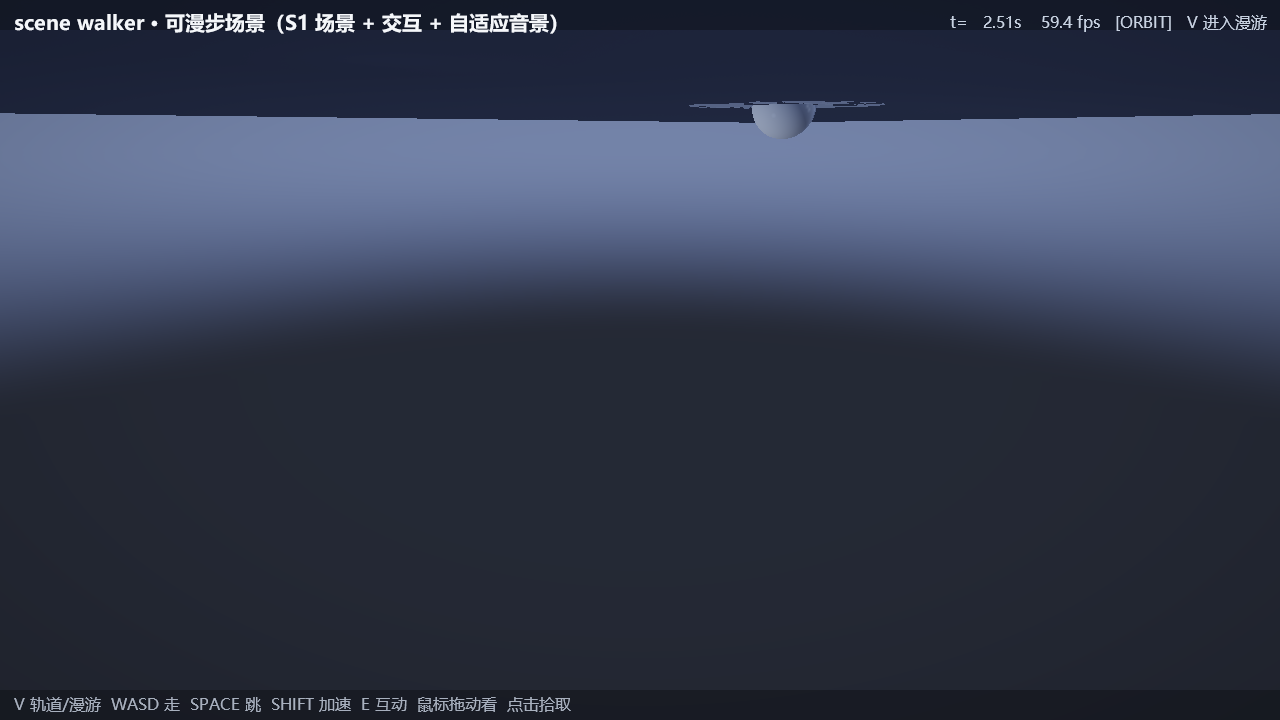
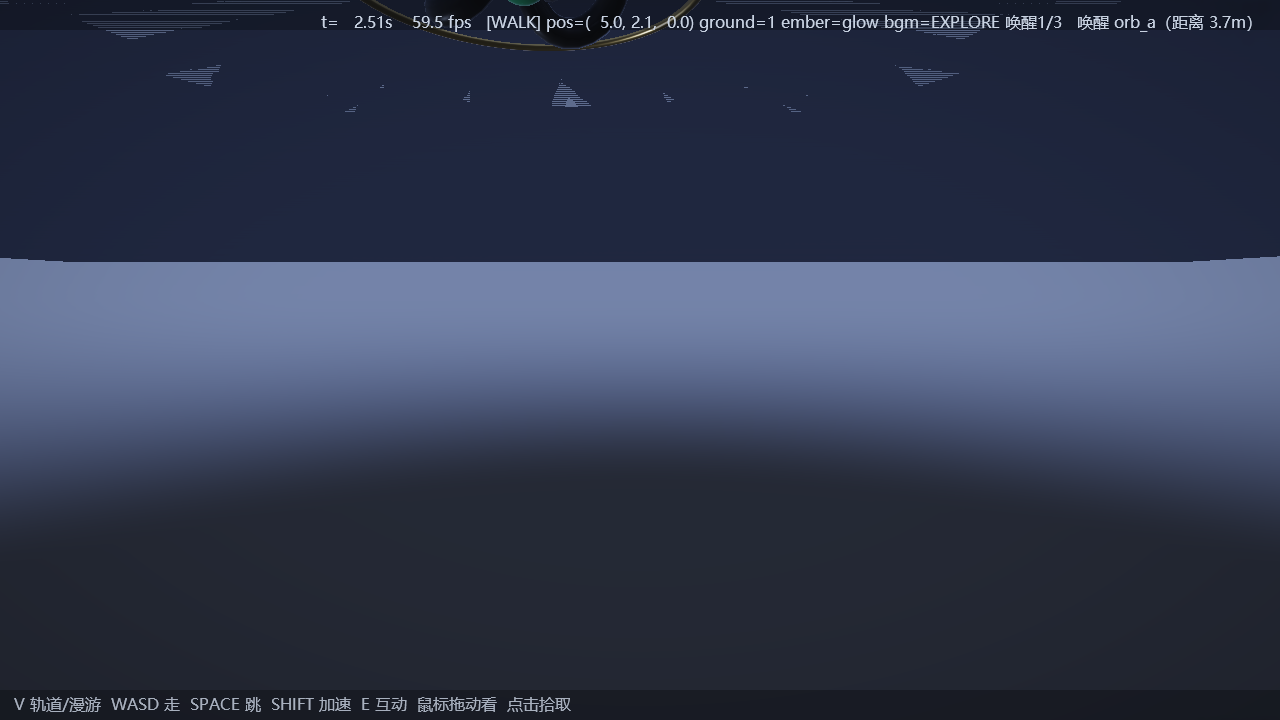
feat(scene_walker): v3.3 玩法目标与音乐叙事——唤醒 3 个 orb：探索→警觉→紧张→胜利
- engine/adaptive_music.py：新增 set_extra()（注入 enemy_count/victory 等附加
  game_state 字段，驱动引擎内置 COMBAT_LOW / VICTORY 状态）
- demos/scene_walker.py：唤醒去重集合 + 音乐阶段推进（1 个→TENSION、
  2 个→COMBAT_LOW、3 个→VICTORY 6 秒余韵后回 EXPLORE）；HUD 显示唤醒进度；
  --flag victory 自检
- 验证：lab venv 全链日志 arouse→TENSION / victory→VICTORY / extra=-→EXPLORE ✓

diff --git a/demos/scene_walker.py b/demos/scene_walker.py
@@ -8,6 +8,8 @@
     - 演出变体：zhuangtaiji 马尔可夫链驱动发光元素（氛围每次不同，
       不可用时回退正弦呼吸）；
     - 交互：点击拾取场景元素；E 键唤醒**最近**的发光元素（脉冲高亮）；
+      **玩法目标**：唤醒全部 3 个 orb —— 音乐叙事随之推进
+      （探索→警觉→紧张→胜利；HUD 显示唤醒进度）；
     - 音景：bloodmusic SFX 反馈音（跳跃/落地/拾取/互动；`assets/sfx/*.wav`，
       由 scripts/gen_sfx.py 生成）+ **自适应 BGM**（互动/拾取推高张力，
       EXPLORE ⇄ TENSION 平滑过渡；需安装 bloodmusic，缺失则静默降级）；
@@ -95,6 +97,9 @@ class WalkerApp(DemoApp):
         self._msg = ''
         self._auto_t = None                    # --flag interact 自检
         self._hot_t = None                     # --flag hotreload 自检
+        self._awakened = set()                 # 已唤醒元素（玩法目标：3 个 orb）
+        self._victory_until = 0.0              # 胜利余韵截止
+        self._victory_t = None                 # --flag victory 自检
         super().__init__(width, height, args=args)
 
     # -------------------------------------------------------------- setup --
@@ -202,6 +207,11 @@ class WalkerApp(DemoApp):
                 self.walk = True
                 self._sync_eye()
             self.body.position = (5.0, 2.5, 0.0)   # 近移确保在互动半径内
+        if 'victory' in self.args.flags:
+            self._victory_t = 3.0
+            if 'walk' not in self.args.flags:
+                self.walk = True
+                self._sync_eye()
 
     def _rebuild_statics(self):
         """（重建）把场景几何注册为静态碰撞——热重载后调用以同步碰撞。"""
@@ -316,7 +326,9 @@ class WalkerApp(DemoApp):
         self._pulse[name] = self.time + 1.2
         self._msg = f'唤醒 {name}（距离 {dist:.1f}m）'
         self.sfx.play('power_up')
-        self.bgm.arouse(6.0, 0.55)
+        if name not in self._awakened:
+            self._awakened.add(name)
+            self._update_music_stage(len(self._awakened))
         if self._mc is not None:
             for _ in range(3):
                 if self._mc.current != 'dim':
@@ -326,6 +338,18 @@ class WalkerApp(DemoApp):
                   flush=True)
         else:
             print(f'[interact] wake {name} (breath mode)', flush=True)
+
+    def _update_music_stage(self, n):
+        """唤醒进度 -> 音乐叙事阶段：探索 → 警觉 → 紧张 → 胜利。"""
+        if n >= 3:
+            self.bgm.set_extra({'victory': True})
+            self._victory_until = self.time + 6.0
+            print('[goals] all orbs awakened -> VICTORY', flush=True)
+        elif n == 2:
+            self.bgm.set_extra({'enemy_count': 3})     # 引擎阈值 -> COMBAT_LOW
+            print('[goals] 2/3 awakened -> COMBAT_LOW', flush=True)
+        else:
+            self.bgm.arouse(6.0, 0.55)                 # -> TENSION
 
     def _on_close(self):
         """退出前停掉 BGM 流（尽力；不拦截默认关闭流程）。"""
@@ -358,6 +382,14 @@ class WalkerApp(DemoApp):
         if self._hot_t is not None and self.time >= self._hot_t:
             self._hot_t = None
             self._hotreload_step()
+        if self._victory_t is not None and self.time >= self._victory_t:
+            self._victory_t = None
+            print('[selftest] auto victory', flush=True)
+            self._awakened = {'orb_a', 'orb_b', 'orb_c'}
+            self._update_music_stage(3)
+        if self._victory_until and self.time >= self._victory_until:
+            self._victory_until = 0.0
+            self.bgm.set_extra({})          # 胜利余韵结束，回到探索
         if self.walk:
             ks = self._keys
             f = (1.0 if 'W' in ks else 0.0) - (1.0 if 'S' in ks else 0.0)
@@ -466,7 +498,7 @@ class WalkerApp(DemoApp):
             mc = self._mc.current if self._mc is not None else 'breath'
             return (f'{base}   [WALK] pos=({p[0]:5.1f},{p[1]:4.1f},{p[2]:5.1f}) '
                     f'ground={int(self.body.on_ground)} ember={mc} '
-                    f'bgm={self.bgm.state_name}{msg}')
+                    f'bgm={self.bgm.state_name} 唤醒{len(self._awakened)}/3{msg}')
         return f'{base}   [ORBIT]   V 进入漫游{msg}'
 
 

diff --git a/engine/adaptive_music.py b/engine/adaptive_music.py
@@ -36,6 +36,7 @@ class AdaptiveBgm:
         self._engine = None
         self._stream = None
         self._last_state = None
+        self._extra = {}           # 附加 game_state 字段（v3.3：COMBAT/VICTORY）
         self.enabled = bool(enabled) and os.environ.get('WORLD3D_BGM', '1') != '0'
         if not self.enabled:
             print('[bgm] disabled by env', flush=True)
@@ -67,6 +68,13 @@ class AdaptiveBgm:
         self._until = float(seconds)
         print(f'[bgm] arouse {level:.2f} for {seconds:.1f}s', flush=True)
 
+    def set_extra(self, extra):
+        """注入附加 game_state 字段（如 ``enemy_count=3`` → COMBAT_LOW、
+        ``victory=True`` → VICTORY）；传 None/{} 清除。"""
+        self._extra = dict(extra or {})
+        if self.enabled:
+            print(f'[bgm] extra={self._extra or "-"}', flush=True)
+
     def tick(self, dt):
         """主线程每帧调用：警觉衰减回落 EXPLORE。"""
         if not self.enabled or self._until <= 0:
@@ -90,7 +98,9 @@ class AdaptiveBgm:
     def _cb(self, outdata, frames, time_info, status):
         try:
             eng = self._engine
-            eng.update({'intensity': self._arousal}, frames / float(SR))
+            state = {'intensity': self._arousal}
+            state.update(self._extra)
+            eng.update(state, frames / float(SR))
             st = eng.current_state
             if st != self._last_state:
                 self._last_state = st

diff --git a/demos/README.md b/demos/README.md
@@ -53,7 +53,7 @@ python scripts\verify_demos.py --only boids,water  只验指定 demo
 | `engine_showcase.py` | 24s | **引擎综合巡礼**：PBR/IBL、Bloom、SSAO、实例化、视锥剔除、拾取、物理、性能面板、场景序列化 | `engine_showcase_01/02.png` |
 | `material_lab.py` | 30s | **新建模 × 新素材**：车削/管扫/环面结 + 程序化 PBR 纹理（拉丝/大理石/电路板等 5 套） | `material_lab_01/02.png` |
 | `nordic_saga.py` | 60s | **《诺德之境》**：上古卷轴风格程序化动画（雪原遗迹/巨龙/龙语古墙 + 程序化配乐） | `nordic_01..06.png` |
-| `scene_walker.py` | 交互 | **可漫步场景（交互化）**：S1 场景 JSON → 第一人称物理漫步（固定步长抗卡帧）+ 马尔可夫演出变体 + 拾取/E 互动 + SFX/自适应 BGM + 场景热重载 | `scene_walker_01.png` |
+| `scene_walker.py` | 交互 | **可漫步场景（交互化）**：S1 场景 JSON → 第一人称物理漫步（固定步长抗卡帧）+ 马尔可夫演出变体 + 拾取/E 互动（唤醒 3 个 orb 的音乐叙事：探索→警觉→紧张→胜利）+ SFX/自适应 BGM + 场景热重载 | `scene_walker_01.png` |
 
 ### 演示专属开关（`--flag`，逗号可并列）
 
